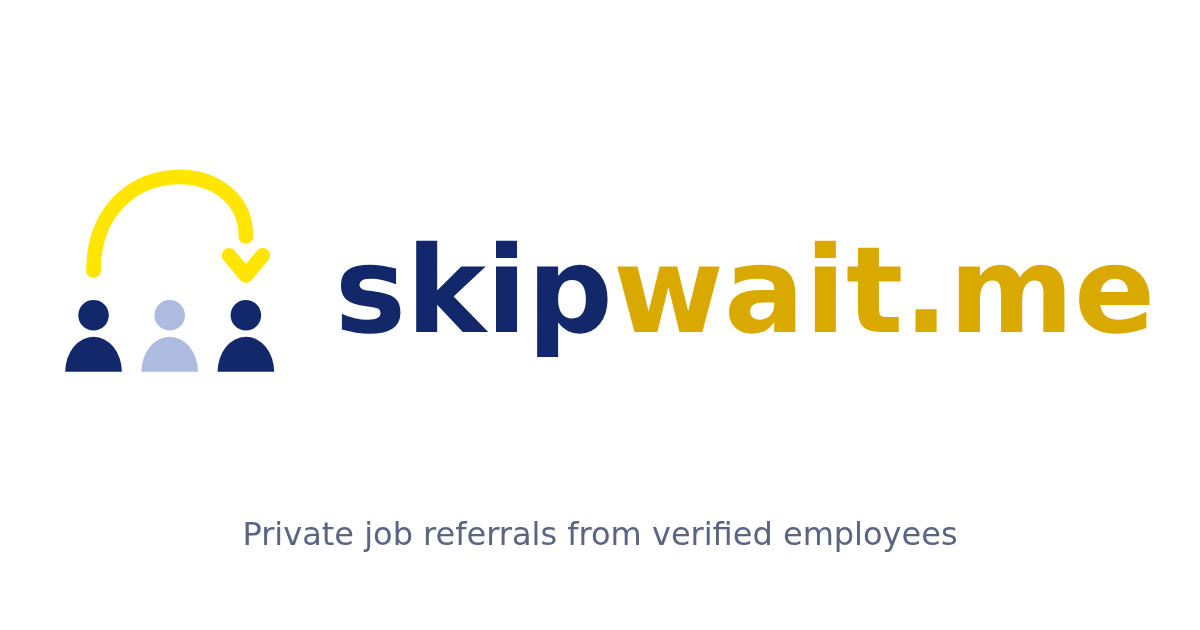
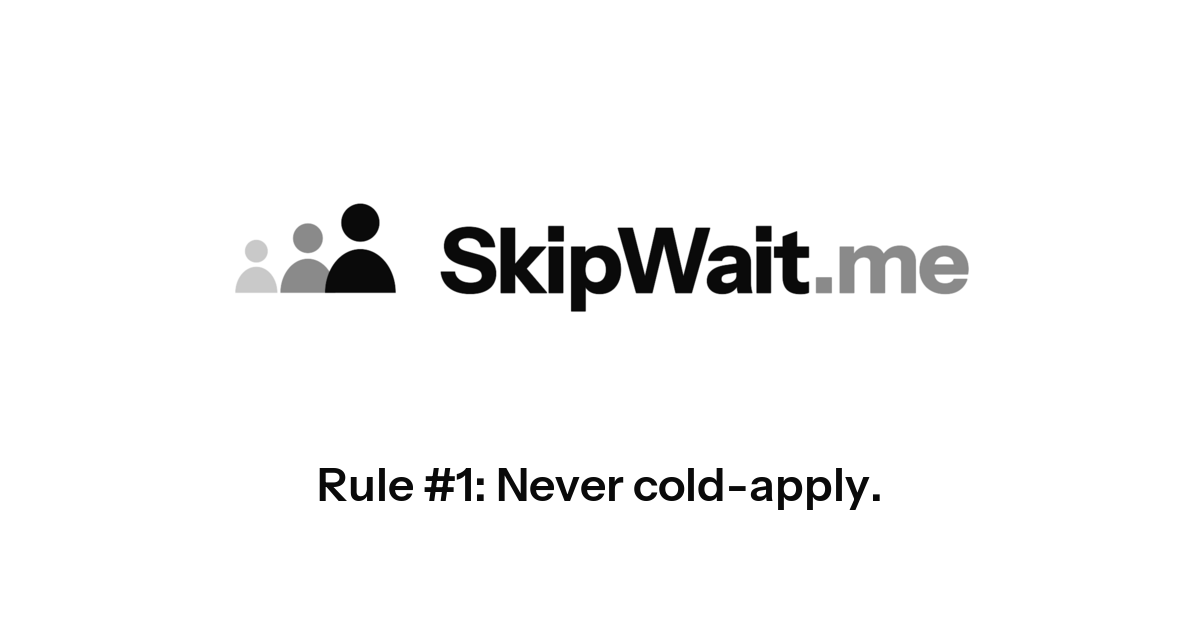
Brand consistency: current V6-B/W1 OG image + repoint legacy lockup references
- Replace client/public/brand/og.png and og_1200x630.png (were the
  superseded Oct-20 yellow-arc/lowercase mark) with a 1200x630 render of
  the current lockup.svg (V6-B people + W1 SkipWait.me) plus the frozen
  line 'Rule #1: Never cold-apply.'
- Update og:image:alt in client/index.html to match.
- Repoint every UI reference away from superseded legacy lockups
  (lockup-horizontal-v2, lockup-horizontal-mono, lockup-horizontal-dark-v2)
  to the current assets lockup.svg / lockup-dark.svg across 15 files
  (launch pages, auth pages, admin shell, employer frame, goal frames).
- Legacy files stay in client/public/brand (no blind deletion); after this
  change they have zero code references.

Proof: metadataAndRouteLoading vitest 2/2 green; tsc --noEmit clean.

Changed region(s): [[0.0308, 0.3016, 0.9558, 0.6032], [0.185, 0.7238, 0.8017, 0.8746], [0.0617, 0.2714, 0.185, 0.4524]]

diff --git a/client/src/components/admin/AdminShell.tsx b/client/src/components/admin/AdminShell.tsx
@@ -13,7 +13,7 @@ const items = [
 export function AdminShell({ view, onView, children }: { view: AdminView; onView: (view: AdminView) => void; children: ReactNode }) {
   const [open, setOpen] = useState(false);
   return <div className="admin-shell">
-    <aside id="admin-sidebar" className={open ? "admin-sidebar open" : "admin-sidebar"}><div className="admin-mode">INTERNAL OPERATIONS</div><Link className="wordmark" href="/"><img src="/brand/lockup-horizontal-dark-v2.svg" alt="skipwait.me" className="wordmark-logo" /></Link><nav aria-label="Admin sections">{items.map(([id, label, Icon]) => <Button key={id} variant="ghost" aria-current={view === id ? "page" : undefined} className={view === id ? "active" : ""} onClick={() => { onView(id); setOpen(false); }}><Icon />{label}</Button>)}</nav><Button variant="outline" asChild><Link href="/explore"><ArrowLeft />Exit admin</Link></Button></aside>
+    <aside id="admin-sidebar" className={open ? "admin-sidebar open" : "admin-sidebar"}><div className="admin-mode">INTERNAL OPERATIONS</div><Link className="wordmark" href="/"><img src="/brand/lockup-dark.svg" alt="skipwait.me" className="wordmark-logo" /></Link><nav aria-label="Admin sections">{items.map(([id, label, Icon]) => <Button key={id} variant="ghost" aria-current={view === id ? "page" : undefined} className={view === id ? "active" : ""} onClick={() => { onView(id); setOpen(false); }}><Icon />{label}</Button>)}</nav><Button variant="outline" asChild><Link href="/explore"><ArrowLeft />Exit admin</Link></Button></aside>
     <div className="admin-main"><header className="admin-topbar"><Button variant="ghost" className="admin-menu" aria-expanded={open} aria-controls="admin-sidebar" onClick={() => setOpen(!open)}>Menu</Button><span><ShieldCheck />All decisions should be documented</span></header>{children}</div>
   </div>;
 }

diff --git a/client/src/pages/Emails.tsx b/client/src/pages/Emails.tsx
@@ -100,7 +100,7 @@ export default function Emails() {
   const emailed = template.channel !== "In-app";
   return <div data-skipwait-screen="emails" className="min-h-screen bg-muted">
     <header className="mx-auto flex max-w-6xl items-center justify-between px-5 py-4">
-      <Link href="/" className="wordmark" aria-label="skipwait.me home"><img src="/brand/lockup-horizontal-v2.svg" alt="skipwait.me" className="wordmark-logo" /></Link>
+      <Link href="/" className="wordmark" aria-label="skipwait.me home"><img src="/brand/lockup.svg" alt="skipwait.me" className="wordmark-logo" /></Link>
       <h1 className="text-xs font-semibold text-muted-foreground">EMAIL & IN-APP TEMPLATES</h1>
     </header>
     <div className="mx-auto grid max-w-6xl gap-4 px-5 pb-16 md:grid-cols-[240px_minmax(0,1fr)]">
@@ -118,7 +118,7 @@ export default function Emails() {
             {template.subject ? <p className="font-semibold">{template.subject}</p> : <p className="font-semibold">{template.name}</p>}
           </div>
           <div className="p-8">
-            <p className="wordmark text-xl"><img src="/brand/lockup-horizontal-v2.svg" alt="skipwait.me" className="wordmark-logo" /></p>
+            <p className="wordmark text-xl"><img src="/brand/lockup.svg" alt="skipwait.me" className="wordmark-logo" /></p>
             {(template.body ?? [template.trigger]).map(line => <p key={line} className="mt-4 leading-relaxed">{line}</p>)}
             {template.body ? <p className="mt-4 leading-relaxed text-muted-foreground">Fired when: {template.trigger.replace(/^Sent when /, "")}</p> : null}
             <p className="mt-4 leading-relaxed text-muted-foreground">Sent by: {template.channel}</p>

diff --git a/client/src/pages/Home.tsx b/client/src/pages/Home.tsx
@@ -36,7 +36,7 @@ export default function Home() {
   return (
     <div className="launch-page">
       <header className="launch-header">
-        <Link className="wordmark" href="/" aria-label="skipwait.me home"><img src="/brand/lockup-horizontal-v2.svg" alt="skipwait.me" className="wordmark-logo" /></Link>
+        <Link className="wordmark" href="/" aria-label="skipwait.me home"><img src="/brand/lockup.svg" alt="skipwait.me" className="wordmark-logo" /></Link>
         <nav aria-label="Website navigation" className={menu ? "launch-nav open" : "launch-nav"}>
           <Link href="/explore" onClick={() => setMenu(false)}>Explore companies</Link>
           <Link href="/referrer" onClick={() => setMenu(false)}>For referrers</Link>
@@ -117,7 +117,7 @@ export default function Home() {
         </section>
       </main>
       <footer className="launch-footer">
-        <Link className="wordmark" href="/" aria-label="skipwait.me home"><img src="/brand/lockup-horizontal-v2.svg" alt="skipwait.me" className="wordmark-logo" /></Link>
+        <Link className="wordmark" href="/" aria-label="skipwait.me home"><img src="/brand/lockup.svg" alt="skipwait.me" className="wordmark-logo" /></Link>
         <span>A warmer way in. · skipwait.me</span>
         {/* Kit phone CSS puts every footer span on row 2; the links take row 3 so they never overlap the tagline. */}
         <span className="flex flex-wrap gap-4 max-[769px]:row-start-3!">

diff --git a/client/src/pages/ForCompanies.tsx b/client/src/pages/ForCompanies.tsx
@@ -40,7 +40,7 @@ export default function ForCompanies() {
   return (
     <div data-skipwait-screen="for-companies" className="companies-site">
       <header className="launch-header">
-        <Link className="wordmark" href="/" aria-label="skipwait.me home"><img src="/brand/lockup-horizontal-v2.svg" alt="skipwait.me" className="wordmark-logo" /></Link>
+        <Link className="wordmark" href="/" aria-label="skipwait.me home"><img src="/brand/lockup.svg" alt="skipwait.me" className="wordmark-logo" /></Link>
         <nav aria-label="Company navigation" className="launch-nav">
           {import.meta.env.VITE_COMPANY_CLAIM === "true" ? <Link href="/company/claim">Claim your company</Link> : null}
           <Link href="/explore">Explore</Link>
@@ -98,7 +98,7 @@ export default function ForCompanies() {
         </section>
       </main>
       <footer className="launch-footer">
-        <Link className="wordmark" href="/" aria-label="skipwait.me home"><img src="/brand/lockup-horizontal-v2.svg" alt="skipwait.me" className="wordmark-logo" /></Link>
+        <Link className="wordmark" href="/" aria-label="skipwait.me home"><img src="/brand/lockup.svg" alt="skipwait.me" className="wordmark-logo" /></Link>
         <span>A warmer way in. · skipwait.me</span>
         <Link href="/employer">Employer workspace</Link>
         <Link href="/safety">Help &amp; safety</Link>

diff --git a/client/src/components/employer/EmployerFrame.tsx b/client/src/components/employer/EmployerFrame.tsx
@@ -15,7 +15,7 @@ export const EMPLOYER_VIEWS = [
 export function EmployerFrame({ companyName, withNav, children }: { companyName?: string; withNav: boolean; children: ReactNode }) {
   return <div data-skipwait-screen="employer-dashboard" className="min-h-screen bg-muted">
     <header className="flex flex-wrap items-center justify-between gap-3 border-b border-border bg-background px-5 py-3">
-      <div className="flex min-w-0 items-center gap-3"><Link href="/" className="wordmark shrink-0"><img src="/brand/lockup-horizontal-v2.svg" alt="skipwait.me" className="wordmark-logo" /></Link><span className="min-w-0 truncate rounded-full bg-muted px-3 py-1 text-xs font-semibold">{companyName ? `EMPLOYER · ${companyName.toUpperCase()}` : "EMPLOYER"}</span></div>
+      <div className="flex min-w-0 items-center gap-3"><Link href="/" className="wordmark shrink-0"><img src="/brand/lockup.svg" alt="skipwait.me" className="wordmark-logo" /></Link><span className="min-w-0 truncate rounded-full bg-muted px-3 py-1 text-xs font-semibold">{companyName ? `EMPLOYER · ${companyName.toUpperCase()}` : "EMPLOYER"}</span></div>
       <Button variant="ghost" size="sm" asChild><Link href="/for-companies"><ArrowLeft />For companies</Link></Button>
     </header>
     <div className={`mx-auto grid max-w-6xl gap-4 p-5 ${withNav ? "md:grid-cols-[200px_minmax(0,1fr)]" : ""}`}>

diff --git a/client/src/pages/Developers.tsx b/client/src/pages/Developers.tsx
@@ -14,7 +14,7 @@ const QUICK_START = `curl ${MCP_ENDPOINT} \\
 export default function Developers() {
   return (
     <div data-skipwait-screen="developers" className="min-h-screen">
-      <header className="mx-auto flex max-w-5xl items-center justify-between px-4 py-5"><Link href="/" className="wordmark text-xl"><img src="/brand/lockup-horizontal-v2.svg" alt="skipwait.me" className="wordmark-logo" /></Link><Button asChild variant="outline" size="sm"><Link href="/assistants">Connected assistants</Link></Button></header>
+      <header className="mx-auto flex max-w-5xl items-center justify-between px-4 py-5"><Link href="/" className="wordmark text-xl"><img src="/brand/lockup.svg" alt="skipwait.me" className="wordmark-logo" /></Link><Button asChild variant="outline" size="sm"><Link href="/assistants">Connected assistants</Link></Button></header>
       <main className="mx-auto max-w-5xl px-4 pb-20">
         <span className="eyebrow">For assistants & developers</span>
         <h1 className="mt-2 max-w-3xl text-4xl font-semibold sm:text-5xl">Use skipwait.me from ChatGPT, Claude, or your own code<span className="brand-dot">.</span></h1>

diff --git a/client/index.html b/client/index.html
@@ -23,7 +23,7 @@
     <meta property="og:description" content="Paste a role link; verified employees decide privately whether to refer you. 3 free credits every month; extra asks use credits. Referrers are never paid." />
     <meta property="og:url" content="https://skipwait.me/" />
     <meta property="og:image" content="https://skipwait.me/brand/og.png" />
-    <meta property="og:image:alt" content="skipwait.me private job referral workflow" />
+    <meta property="og:image:alt" content="SkipWait.me - Rule #1: Never cold-apply." />
     <meta name="twitter:card" content="summary_large_image" />
     <meta name="twitter:title" content="Private job referrals from verified employees — skipwait.me" />
     <meta name="twitter:description" content="Paste a role link; verified employees decide privately whether to refer you. 3 free credits every month; extra asks use credits. Referrers are never paid." />

diff --git a/client/src/pages/DeveloperConsole.tsx b/client/src/pages/DeveloperConsole.tsx
@@ -15,7 +15,7 @@ import { consoleHref, readConsoleView, type ConsoleView } from "@/components/dev
 function ConsoleHeader({ signedIn, email }: { signedIn: boolean; email: string | null }) {
   return (
     <header className="mx-auto flex max-w-5xl items-center justify-between gap-3 px-4 py-5">
-      <Link href="/developers" className="wordmark text-xl"><img src="/brand/lockup-horizontal-v2.svg" alt="skipwait.me" className="wordmark-logo" /> <small className="font-mono text-xs text-muted-foreground">developers</small></Link>
+      <Link href="/developers" className="wordmark text-xl"><img src="/brand/lockup.svg" alt="skipwait.me" className="wordmark-logo" /> <small className="font-mono text-xs text-muted-foreground">developers</small></Link>
       {signedIn ? <Link href="/settings" className="min-w-0 truncate text-sm text-muted-foreground">{email ?? "Account"}</Link> : null}
     </header>
   );

diff --git a/client/src/components/app-states/SystemStates.tsx b/client/src/components/app-states/SystemStates.tsx
@@ -54,7 +54,7 @@ export function ErrorScreen({ screen, onRetry }: { screen: string; onRetry: () =
   return (
     <main data-skipwait-screen={screen} className="flex min-h-dvh items-center justify-center bg-background px-5">
       <div className="max-w-md text-center">
-        <p className="wordmark text-2xl"><img src="/brand/lockup-horizontal-v2.svg" alt="skipwait.me" className="wordmark-logo" /></p>
+        <p className="wordmark text-2xl"><img src="/brand/lockup.svg" alt="skipwait.me" className="wordmark-logo" /></p>
         <h1 className="mt-8 text-3xl font-semibold text-foreground">Something went wrong on our side.</h1>
         <p className="mt-3 text-muted-foreground">Nothing you did. Your asks and messages are safe.</p>
         <div className="mt-8 flex flex-wrap justify-center gap-2">

diff --git a/client/src/pages/PublicProfile.tsx b/client/src/pages/PublicProfile.tsx
@@ -107,7 +107,7 @@ export default function PublicProfile() {
   return (
     <div data-skipwait-screen="public-profile" className="min-h-screen bg-background">
       <header className="mx-auto flex max-w-5xl items-center justify-between gap-3 px-5 py-4">
-        <Link href="/" className="wordmark" aria-label="skipwait.me home"><img src="/brand/lockup-horizontal-v2.svg" alt="skipwait.me" className="wordmark-logo" /></Link>
+        <Link href="/" className="wordmark" aria-label="skipwait.me home"><img src="/brand/lockup.svg" alt="skipwait.me" className="wordmark-logo" /></Link>
         {ownsPage ? (
           <div className="flex rounded-full bg-muted p-1 text-sm" role="tablist" aria-label="View as">
             {(["you", "visitor"] as const).map(option => (

diff --git a/client/src/pages/NotFound.tsx b/client/src/pages/NotFound.tsx
@@ -13,7 +13,7 @@ export function NotFoundContent() {
   return (
     <main data-skipwait-screen="not-found" className="flex min-h-screen items-center justify-center bg-background px-5">
       <div className="max-w-md text-center">
-        <p className="wordmark text-2xl"><img src="/brand/lockup-horizontal-v2.svg" alt="skipwait.me" className="wordmark-logo" /></p>
+        <p className="wordmark text-2xl"><img src="/brand/lockup.svg" alt="skipwait.me" className="wordmark-logo" /></p>
         <h1 className="mt-8 text-4xl font-semibold text-foreground">This door doesn't lead anywhere.</h1>
         <p className="mt-3 text-muted-foreground">The page may have moved, or the link was mistyped.</p>
         <div className="mt-8 flex flex-wrap justify-center gap-2">

diff --git a/client/src/components/PolicyPageShell.tsx b/client/src/components/PolicyPageShell.tsx
@@ -140,7 +140,7 @@ export function PolicyPageShell({ screen, eyebrow, title, intro, description, up
   </>;
   return <div data-skipwait-screen={screen} className="min-h-screen bg-background">
     <header className="mx-auto flex max-w-5xl items-center justify-between gap-3 px-5 py-4">
-      <Link href="/" className="wordmark" aria-label="skipwait.me home"><img src="/brand/lockup-horizontal-v2.svg" alt="skipwait.me" className="wordmark-logo" /></Link>
+      <Link href="/" className="wordmark" aria-label="skipwait.me home"><img src="/brand/lockup.svg" alt="skipwait.me" className="wordmark-logo" /></Link>
       <nav aria-label="Legal" className="flex gap-4 text-sm">
         {LEGAL_NAV.map(item => {
           const active = item.href === canonicalPath;
